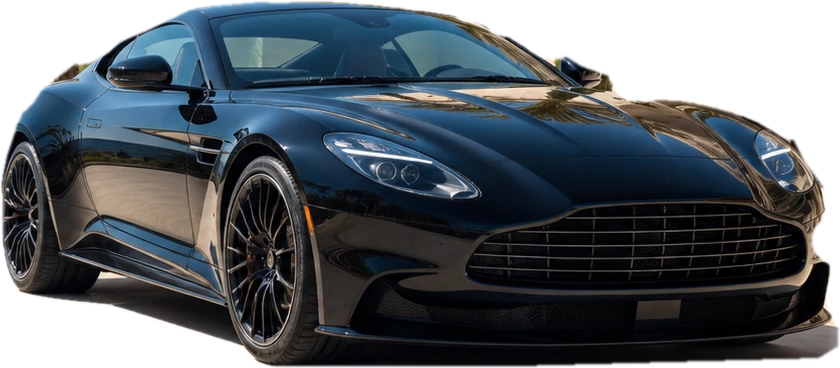
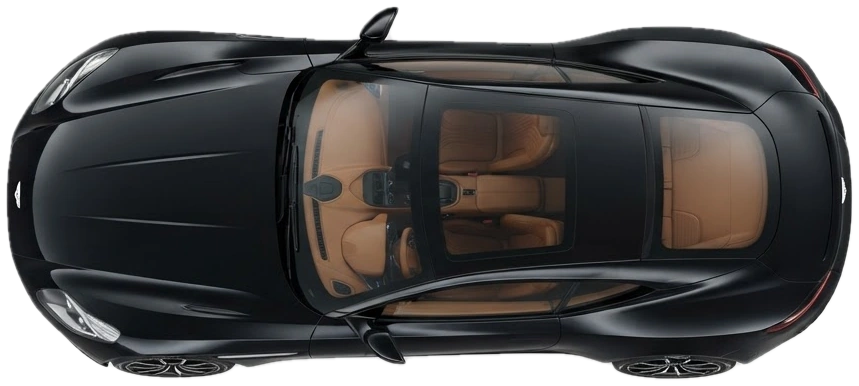
Home hero: new top-down black Aston Martin cut-out in front of the headline words (generated, not borrowed), larger on desktop, tuned for phones

diff --git a/src/pages/Home.tsx b/src/pages/Home.tsx
@@ -177,11 +177,10 @@ export default function Home() {
         <div className="relative z-10 mx-auto max-w-[1400px] px-5 pb-6 pt-24 sm:px-8 sm:pt-28 lg:px-10">
           {/* -------- The stage: word / car / word -------- */}
           <Reveal className="reveal-blur">
-            <div className="relative mx-auto aspect-[1/0.74] w-full select-none sm:aspect-[16/8.4]">
+            <div className="relative mx-auto aspect-[1/0.9] w-full select-none sm:aspect-[16/8.4]">
               <h1
-                className="absolute inset-x-0 top-[3%] -skew-x-[9deg] text-center font-display font-black uppercase leading-[0.84] tracking-[-0.04em] text-transparent"
+                className="absolute inset-x-0 top-[2%] -skew-x-[9deg] text-center font-display font-black uppercase leading-[0.86] tracking-[-0.04em] text-transparent text-[14.5vw] sm:text-[clamp(2.6rem,11.2vw,9.6rem)]"
                 style={{
-                  fontSize: 'clamp(2.6rem, 11.2vw, 9.6rem)',
                   backgroundImage: 'linear-gradient(180deg, #1fe563 0%, #00a63e 55%, #007a30 100%)',
                   WebkitBackgroundClip: 'text',
                   backgroundClip: 'text',
@@ -192,9 +191,8 @@ export default function Home() {
               </h1>
               <p
                 aria-hidden
-                className="absolute inset-x-0 bottom-[-1%] -skew-x-[9deg] text-center font-display font-black uppercase leading-[0.84] tracking-[-0.04em] text-transparent"
+                className="absolute inset-x-0 bottom-[-1%] -skew-x-[9deg] text-center font-display font-black uppercase leading-[0.86] tracking-[-0.04em] text-transparent text-[14.5vw] sm:text-[clamp(2.6rem,11.2vw,9.6rem)]"
                 style={{
-                  fontSize: 'clamp(2.6rem, 11.2vw, 9.6rem)',
                   backgroundImage: 'linear-gradient(180deg, rgba(120,126,118,0.55) 0%, rgba(150,156,148,0.28) 55%, rgba(170,176,168,0) 100%)',
                   WebkitBackgroundClip: 'text',
                   backgroundClip: 'text',
@@ -206,13 +204,13 @@ export default function Home() {
 
               {/* The car, in front of both */}
               <img
-                src="/hero-car.webp?v=2"
+                src="/hero-car.webp?v=3"
                 alt={t('A premium CX car')}
-                width={840}
-                height={368}
+                width={859}
+                height={386}
                 fetchPriority="high"
                 draggable={false}
-                className="absolute left-1/2 top-[47%] w-[88%] max-w-[900px] -translate-x-1/2 -translate-y-1/2 drop-shadow-[0_34px_28px_rgba(14,28,20,0.38)] sm:top-[49%] sm:w-[62%]"
+                className="absolute left-1/2 top-[50%] w-[96%] max-w-[1180px] -translate-x-1/2 -translate-y-1/2 drop-shadow-[0_38px_30px_rgba(14,28,20,0.42)] sm:top-[50%] sm:w-[74%]"
               />
 
               {/* Captions, like the reference: a rule + two lines left, an icon + two lines right */}
